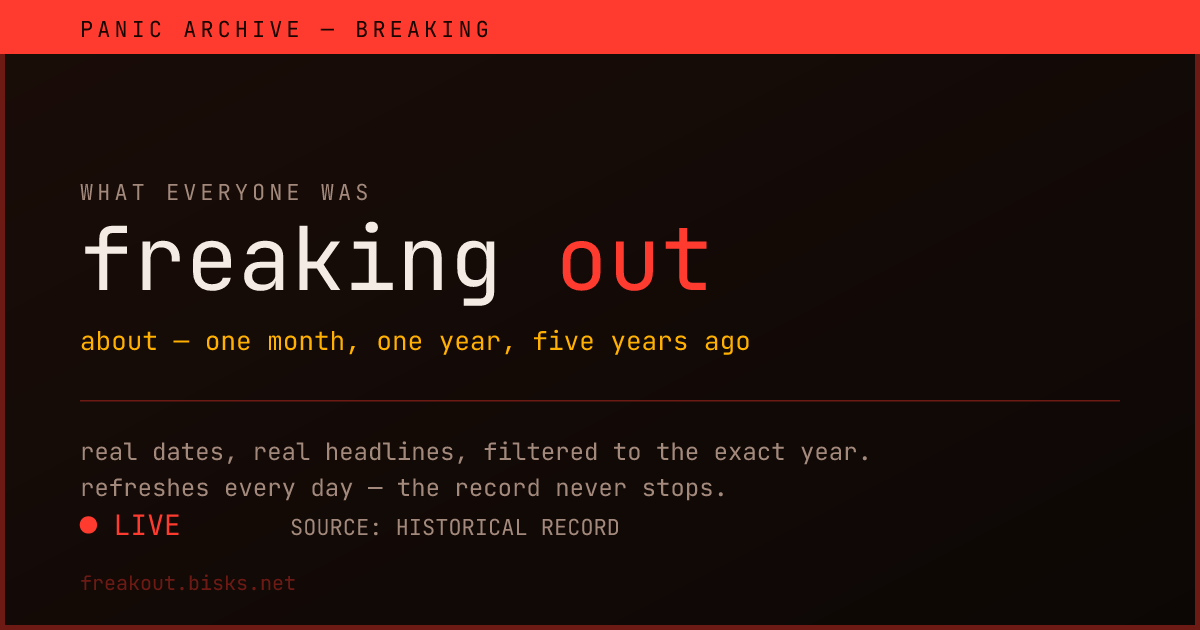
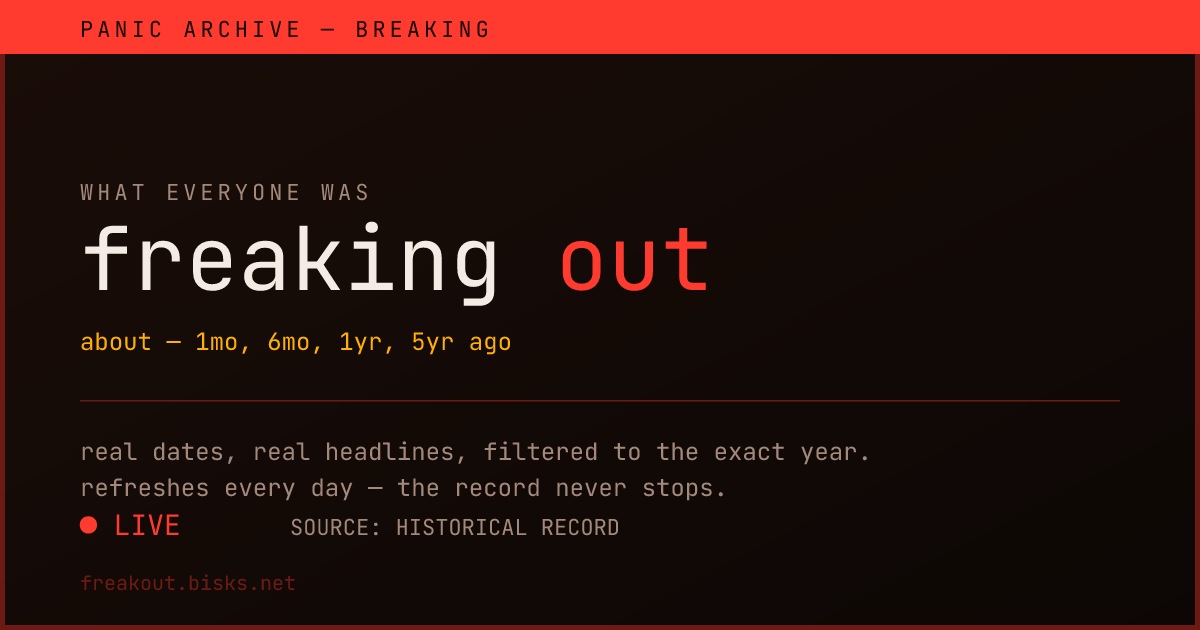
buildthis: freakout (@schizanon.bsky.social)

diff --git a/sites/freakout/public/index.html b/sites/freakout/public/index.html
@@ -4,18 +4,18 @@
 <meta charset="utf-8" />
 <meta name="viewport" content="width=device-width, initial-scale=1" />
 <title>freakout — what everyone was losing it about</title>
-<meta name="description" content="Looks back one month, one year, and five years from today and pulls what the historical record says everyone was freaking out about — real dates, real headlines, refreshed every day." />
+<meta name="description" content="Looks back one month, six months, one year, and five years from today and pulls what the historical record says everyone was freaking out about — real dates, real headlines, refreshed every day." />
 <meta property="og:title" content="freakout — what everyone was losing it about" />
-<meta property="og:description" content="Looks back one month, one year, and five years from today and pulls what the historical record says everyone was freaking out about — real dates, real headlines, refreshed every day." />
+<meta property="og:description" content="Looks back one month, six months, one year, and five years from today and pulls what the historical record says everyone was freaking out about — real dates, real headlines, refreshed every day." />
 <meta property="og:url" content="https://freakout.bisks.net/" />
 <meta property="og:type" content="website" />
 <meta property="og:image" content="https://freakout.bisks.net/og.png" />
 <meta property="og:image:width" content="1200" />
 <meta property="og:image:height" content="630" />
-<meta property="og:image:alt" content="freakout: a tabloid-style breaking news alert reading PANIC ARCHIVE — one month, one year, five years ago." />
+<meta property="og:image:alt" content="freakout: a tabloid-style breaking news alert reading PANIC ARCHIVE — one month, six months, one year, five years ago." />
 <meta name="twitter:card" content="summary_large_image" />
 <meta name="twitter:title" content="freakout — what everyone was losing it about" />
-<meta name="twitter:description" content="One month, one year, five years ago — what the record says everyone was freaking out about, pulled fresh every day." />
+<meta name="twitter:description" content="One month, six months, one year, five years ago — what the record says everyone was freaking out about, pulled fresh every day." />
 <meta name="twitter:image" content="https://freakout.bisks.net/og.png" />
 <style>
   :root {
@@ -202,8 +202,9 @@
     <p class="tag">
       schizanon.bsky.social asked <a href="https://buildthis.bisks.net" target="_blank" rel="noopener">@buildthis.bisks.net</a>
       for a site that looks back and tells you what had everyone losing it. So:
-      one month ago, one year ago, five years ago from whatever day you load this —
-      real headlines for each exact date, pulled live from the historical record.
+      one month ago, six months ago, one year ago, five years ago from whatever day
+      you load this — real headlines for each exact date, pulled live from the
+      historical record.
     </p>
     <p class="todaydate" id="todayDate"></p>
   </header>
@@ -211,6 +212,10 @@
   <div class="cards" id="cards">
     <div class="card" data-period="month">
       <div class="card-head"><span class="label">one month ago</span><span class="date" data-role="date"></span></div>
+      <div class="card-body" data-role="body"><p class="loading">pulling the record</p></div>
+    </div>
+    <div class="card" data-period="sixmonth">
+      <div class="card-head"><span class="label">six months ago</span><span class="date" data-role="date"></span></div>
       <div class="card-body" data-role="body"><p class="loading">pulling the record</p></div>
     </div>
     <div class="card" data-period="year">
@@ -261,6 +266,7 @@
   const today = new Date();
   const targets = {
     month:    { date: monthsAgo(today, 1), label: "one month ago" },
+    sixmonth: { date: monthsAgo(today, 6), label: "six months ago" },
     year:     { date: yearsAgo(today, 1),  label: "one year ago" },
     fiveyear: { date: yearsAgo(today, 5),  label: "five years ago" },
   };

diff --git a/apex/public/index.html b/apex/public/index.html
@@ -1569,7 +1569,7 @@
         <a class="card" href="https://freakout.bisks.net/" data-site="freakout" data-by="schizanon.bsky.social" data-type="toy" data-src="bot">
           <h2>freakout</h2>
           <p>
-            schizanon.bsky.social asked for a site that looks back one month, one year, and five years and tells you what everyone was freaking out about that day — so here's the panic ticker, pulling real headlines from Wikipedia's daily current-events archive for the exact date math, refreshed live every time you load it.
+            schizanon.bsky.social asked for a site that looks back one month, one year, and five years and tells you what everyone was freaking out about that day — so here's the panic ticker, pulling real headlines from Wikipedia's daily current-events archive for the exact date math, refreshed live every time you load it. Added a six-months-ago level after schizanon asked for it in a follow-up.
           </p>
         </a>
         <a class="card" href="https://freecondoms.bisks.net/" data-site="freecondoms" data-by="fromthewestmeadow.com" data-type="tool" data-src="bot">
